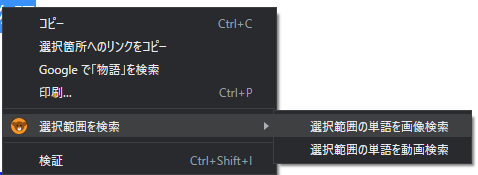
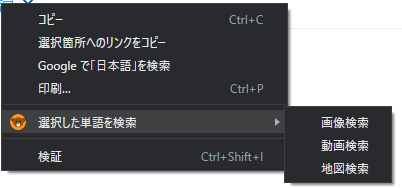
'地図検索の機能を追加'

diff --git a/background.js b/background.js
@@ -9,20 +9,35 @@ chrome.browserAction.onClicked.addListener(function(tab) {
   chrome.tabs.sendMessage(tab.id, ["Action"]);
 });
 
+/*
+テストコード
 chrome.runtime.onInstalled.addListener(() => {
+  const parent = chrome.contextMenus.create({
+      contexts:["selection"],   // ← ※ここ重要(選択したときにコンテキストメニューを作る)
+      id: 'parent',
+      title: '選択範囲の単語を画像検索',
+      onclick: function(info, tab) {
+        chrome.tabs.sendMessage(tab.id, ["Action1",info.selectionText]);
+      }
+  });
+}
+*/
+
+chrome.runtime.onInstalled.addListener(() => {
+
   //
   // 選択したときにコンテキストメニューを作り、クリック時にメッセージを投げる
   //
   const parent = chrome.contextMenus.create({
-      contexts:["selection"],   // ← ※ここ重要(選択したときにコンテキストメニューを作る)
-      id: 'parent',
-      title: '選択範囲を検索'
+    contexts:["selection"],   // ← ※ここ重要(選択したときにコンテキストメニューを作る)
+    id: 'parent',
+    title: '選択した単語を検索'
   });
   chrome.contextMenus.create({
     contexts:["selection"],   // ← ※子でもこれが無いと表示されない
     id: 'child1',
     parentId: 'parent',
-    title: '選択範囲の単語を画像検索',
+    title: '画像検索',
     onclick: function(info, tab) {
       chrome.tabs.sendMessage(tab.id, ["Action1",info.selectionText]);
     }
@@ -31,9 +46,18 @@ chrome.runtime.onInstalled.addListener(() => {
     contexts:["selection"],   // ← ※子でもこれが無いと表示されない
     id: 'child2',
     parentId: 'parent',
-    title: '選択範囲の単語を動画検索',
+    title: '動画検索',
     onclick: function(info, tab) {
       chrome.tabs.sendMessage(tab.id, ["Action2",info.selectionText]);
+    }
+  });
+  chrome.contextMenus.create({
+    contexts:["selection"],   // ← ※子でもこれが無いと表示されない
+    id: 'child3',
+    parentId: 'parent',
+    title: '地図検索',
+    onclick: function(info, tab) {
+      chrome.tabs.sendMessage(tab.id, ["Action3",info.selectionText]);
     }
   });
 });

diff --git a/script.js b/script.js
@@ -13,33 +13,49 @@
     >> https://www.google.co.jp/search?hl=ja&tbm=isch&q=%E8%8A%B1
 */
 
-chrome.extension.onMessage.addListener(function(request, sender, sendResponse) {
+chrome.extension.onMessage.addListener(function(request, sender, sendResponse)
+{
   console.log("メッセージ",request[0]);
-  if (request[0] == "Action") {
+  if (request[0] == "Action")
+  {
     // 選択範囲の単語を読み込む
     var selectedText = window.getSelection().toString();
     gSearch(selectedText,'isch');  // 画像検索
-  }
-  if (request[0] == "Action1") {
+  }else
+  if (request[0] == "Action1")
+  {
     gSearch(request[1],'isch');  // 画像検索
-  }
-  if (request[0] == "Action2") {
+  }else
+  if (request[0] == "Action2")
+  {
     gSearch(request[1],'vid');   // 動画検索
+  }else
+  if (request[0] == "Action3")
+  {
+    gSearch(request[1],'map');   // 地図検索
   }
 });
 
 //
-// 新しいウインドウで、単語をgoogleで画像検索をする
+// 新しいウインドウで、単語をgoogleで検索をする
 //
 function gSearch(selectedText,kind) {
 //  console.log('選択範囲',selectedText);
 
   if(selectedText!="")
   {
-    var url= 'https://www.google.co.jp/search?hl=ja&tbm='+kind+'&q='+selectedText;
+    var url;
+    if('map' == kind)
+    {
+      url= 'https://www.google.co.jp/maps?q='+selectedText;
+    }else
+    {
+      url= 'https://www.google.co.jp/search?hl=ja&tbm='+kind+'&q='+selectedText;
+    }
     var encodeUrl = encodeURI(url);
 //    console.log(url);
 //    console.log(encodeUrl);
     window.open(encodeUrl);
   }
 }
+

diff --git a/README.md b/README.md
@@ -1,6 +1,7 @@
 ## GSearchとは
 ・google chrome用の拡張機能です。
 　範囲選択済みの単語を、google画像検索するものです。
+　右クリックメニューの機能拡張です。
 
 ## 使い方
 1)
@@ -15,7 +16,7 @@
 
 ・ブラウザーで、任意のサイトを開いて、調べたい画像の単語を範囲をマウスで範囲選択します。
 
-・単語を範囲選択したら、右クリックメニューで画像検索、動画検索を選びます。
+・単語を範囲選択したら、右クリックメニューで画像検索、動画検索、地図検索を選びます。
 
 ![clip_2](clip_2.png)
 
@@ -27,6 +28,13 @@
 ・chromeの設定メニューから拡張機能を選び、「パッケージ化されていない拡張機能を読み込む」から本フォルダーを選んでインストールします。
 
 ・拡張機能で「くま」のアイコン表示を固定にして下さい。
+
+### 変更履歴
+0.3 右クリックメニューに地図検索を追加
+
+0.2 右クリックメニューを追加、右クリックメニューに動画検索を追加
+
+0.1 とりあえず公開
 
 ### ライセンス
 MIT
